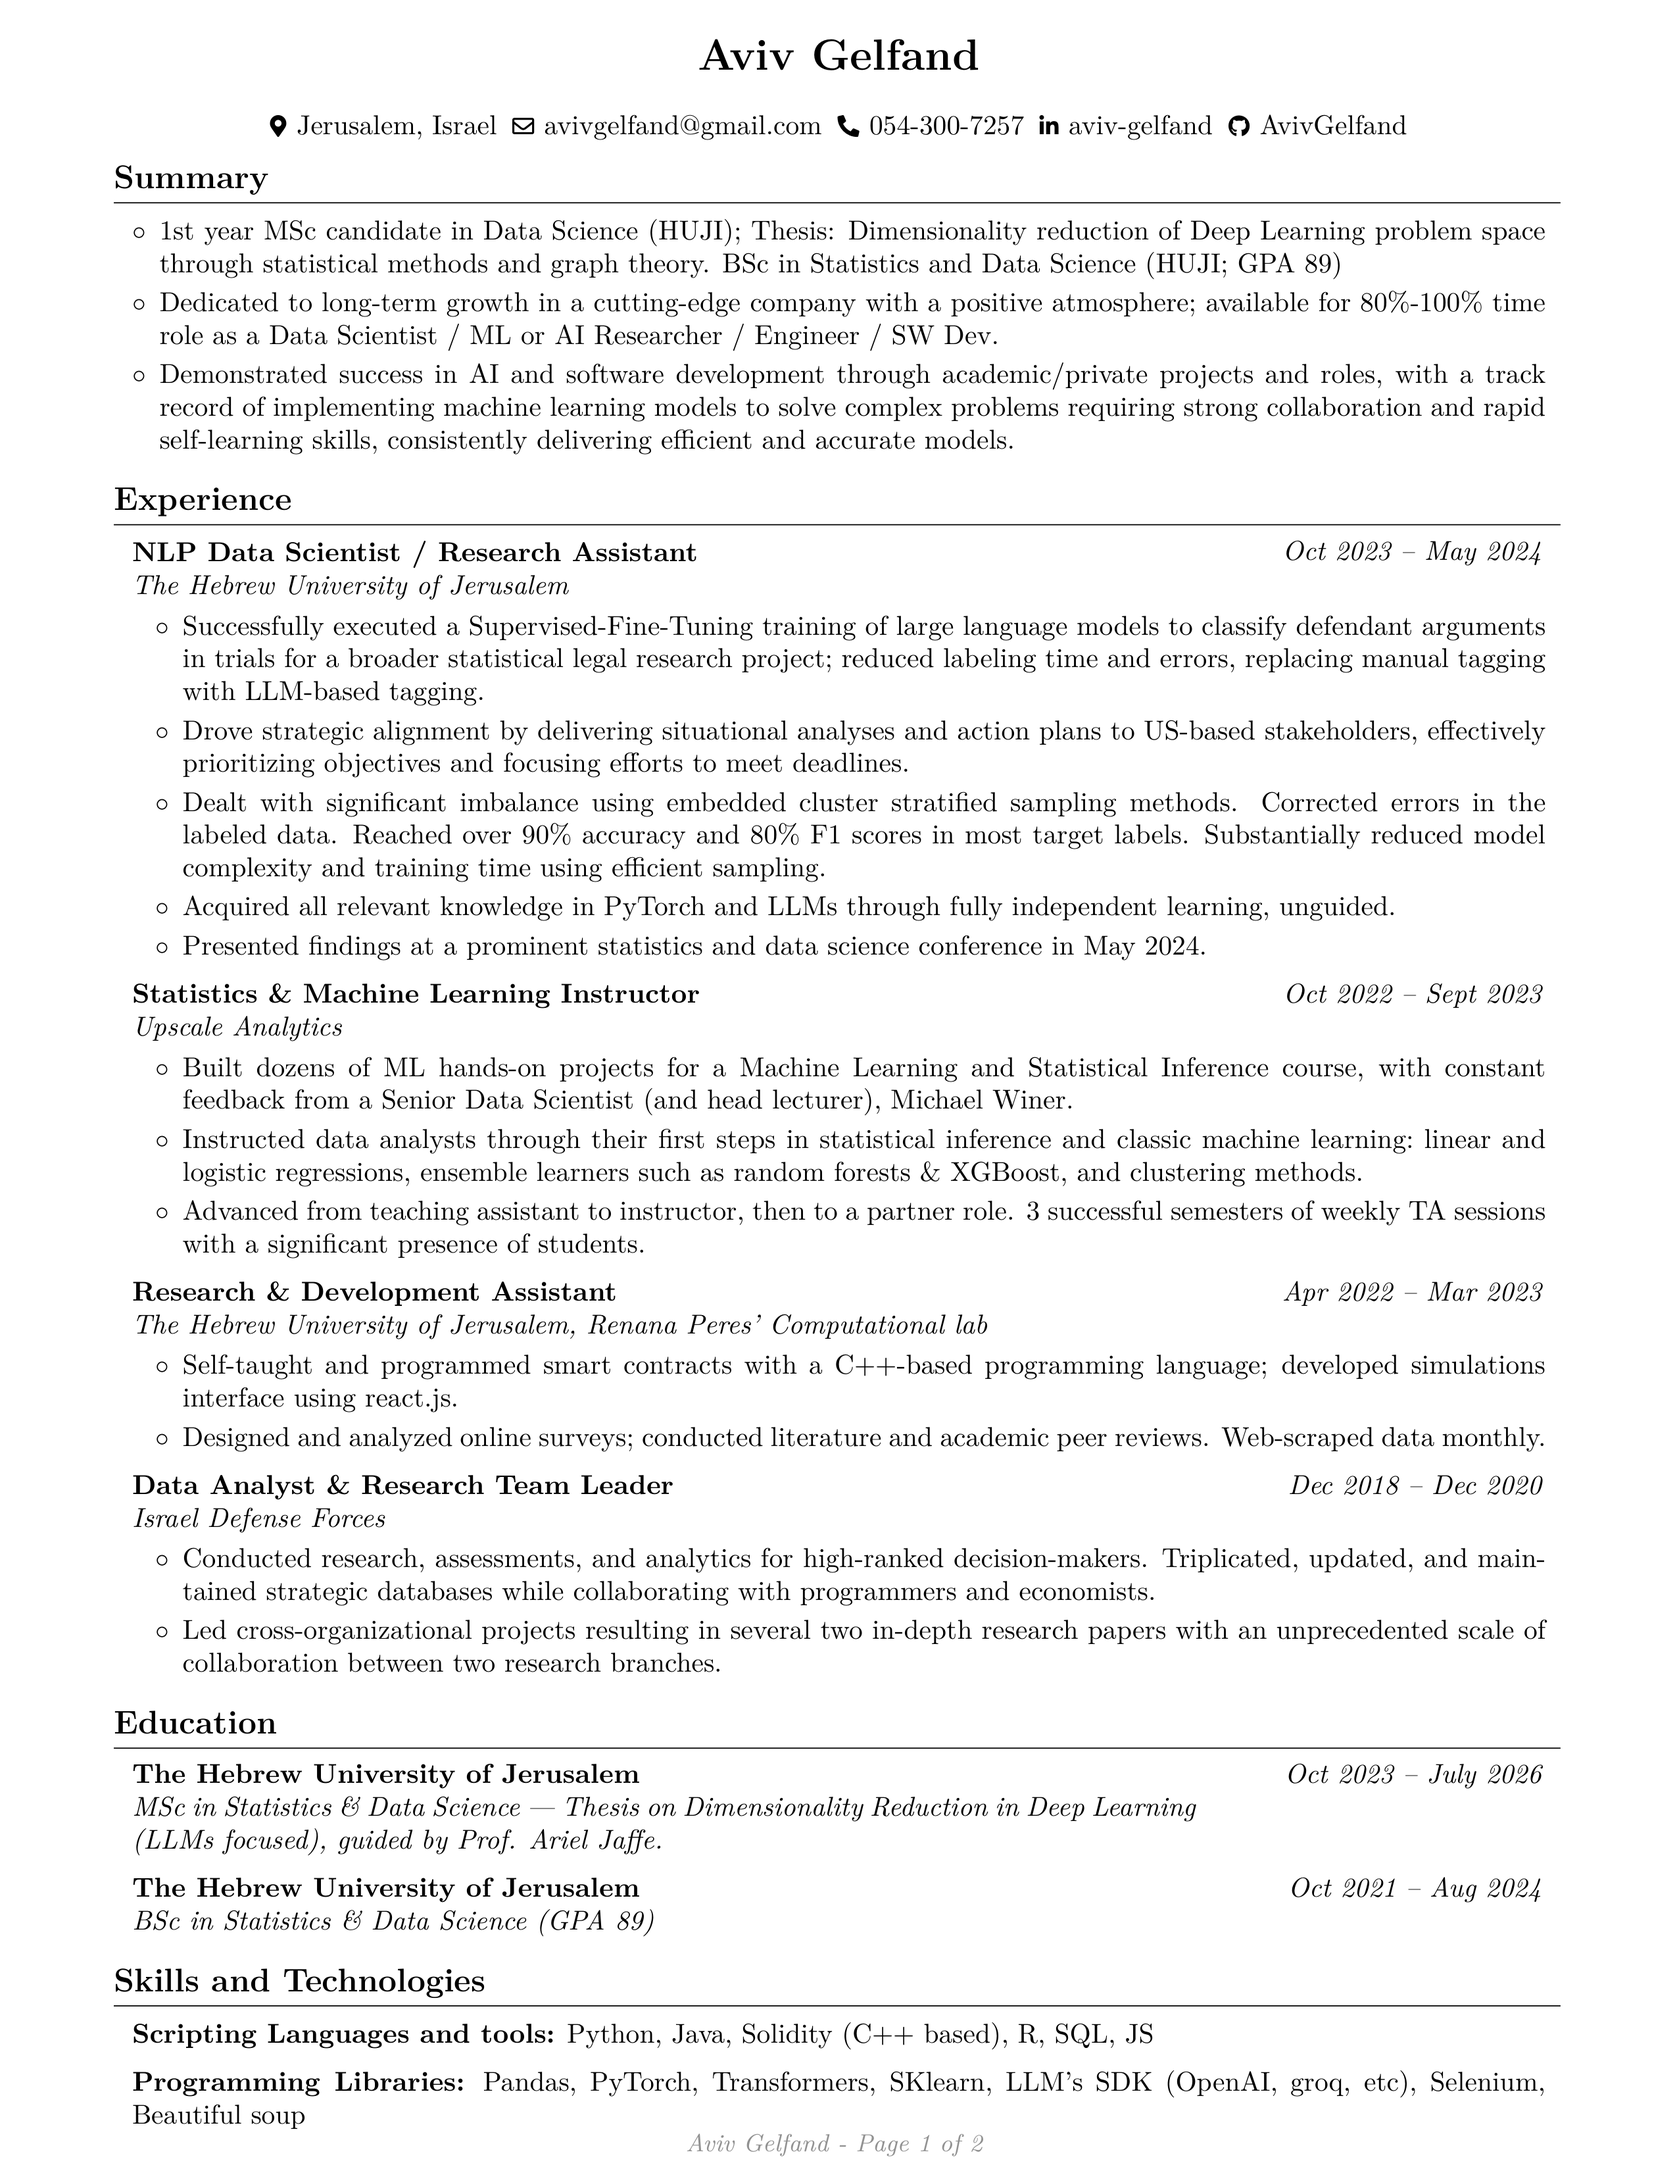
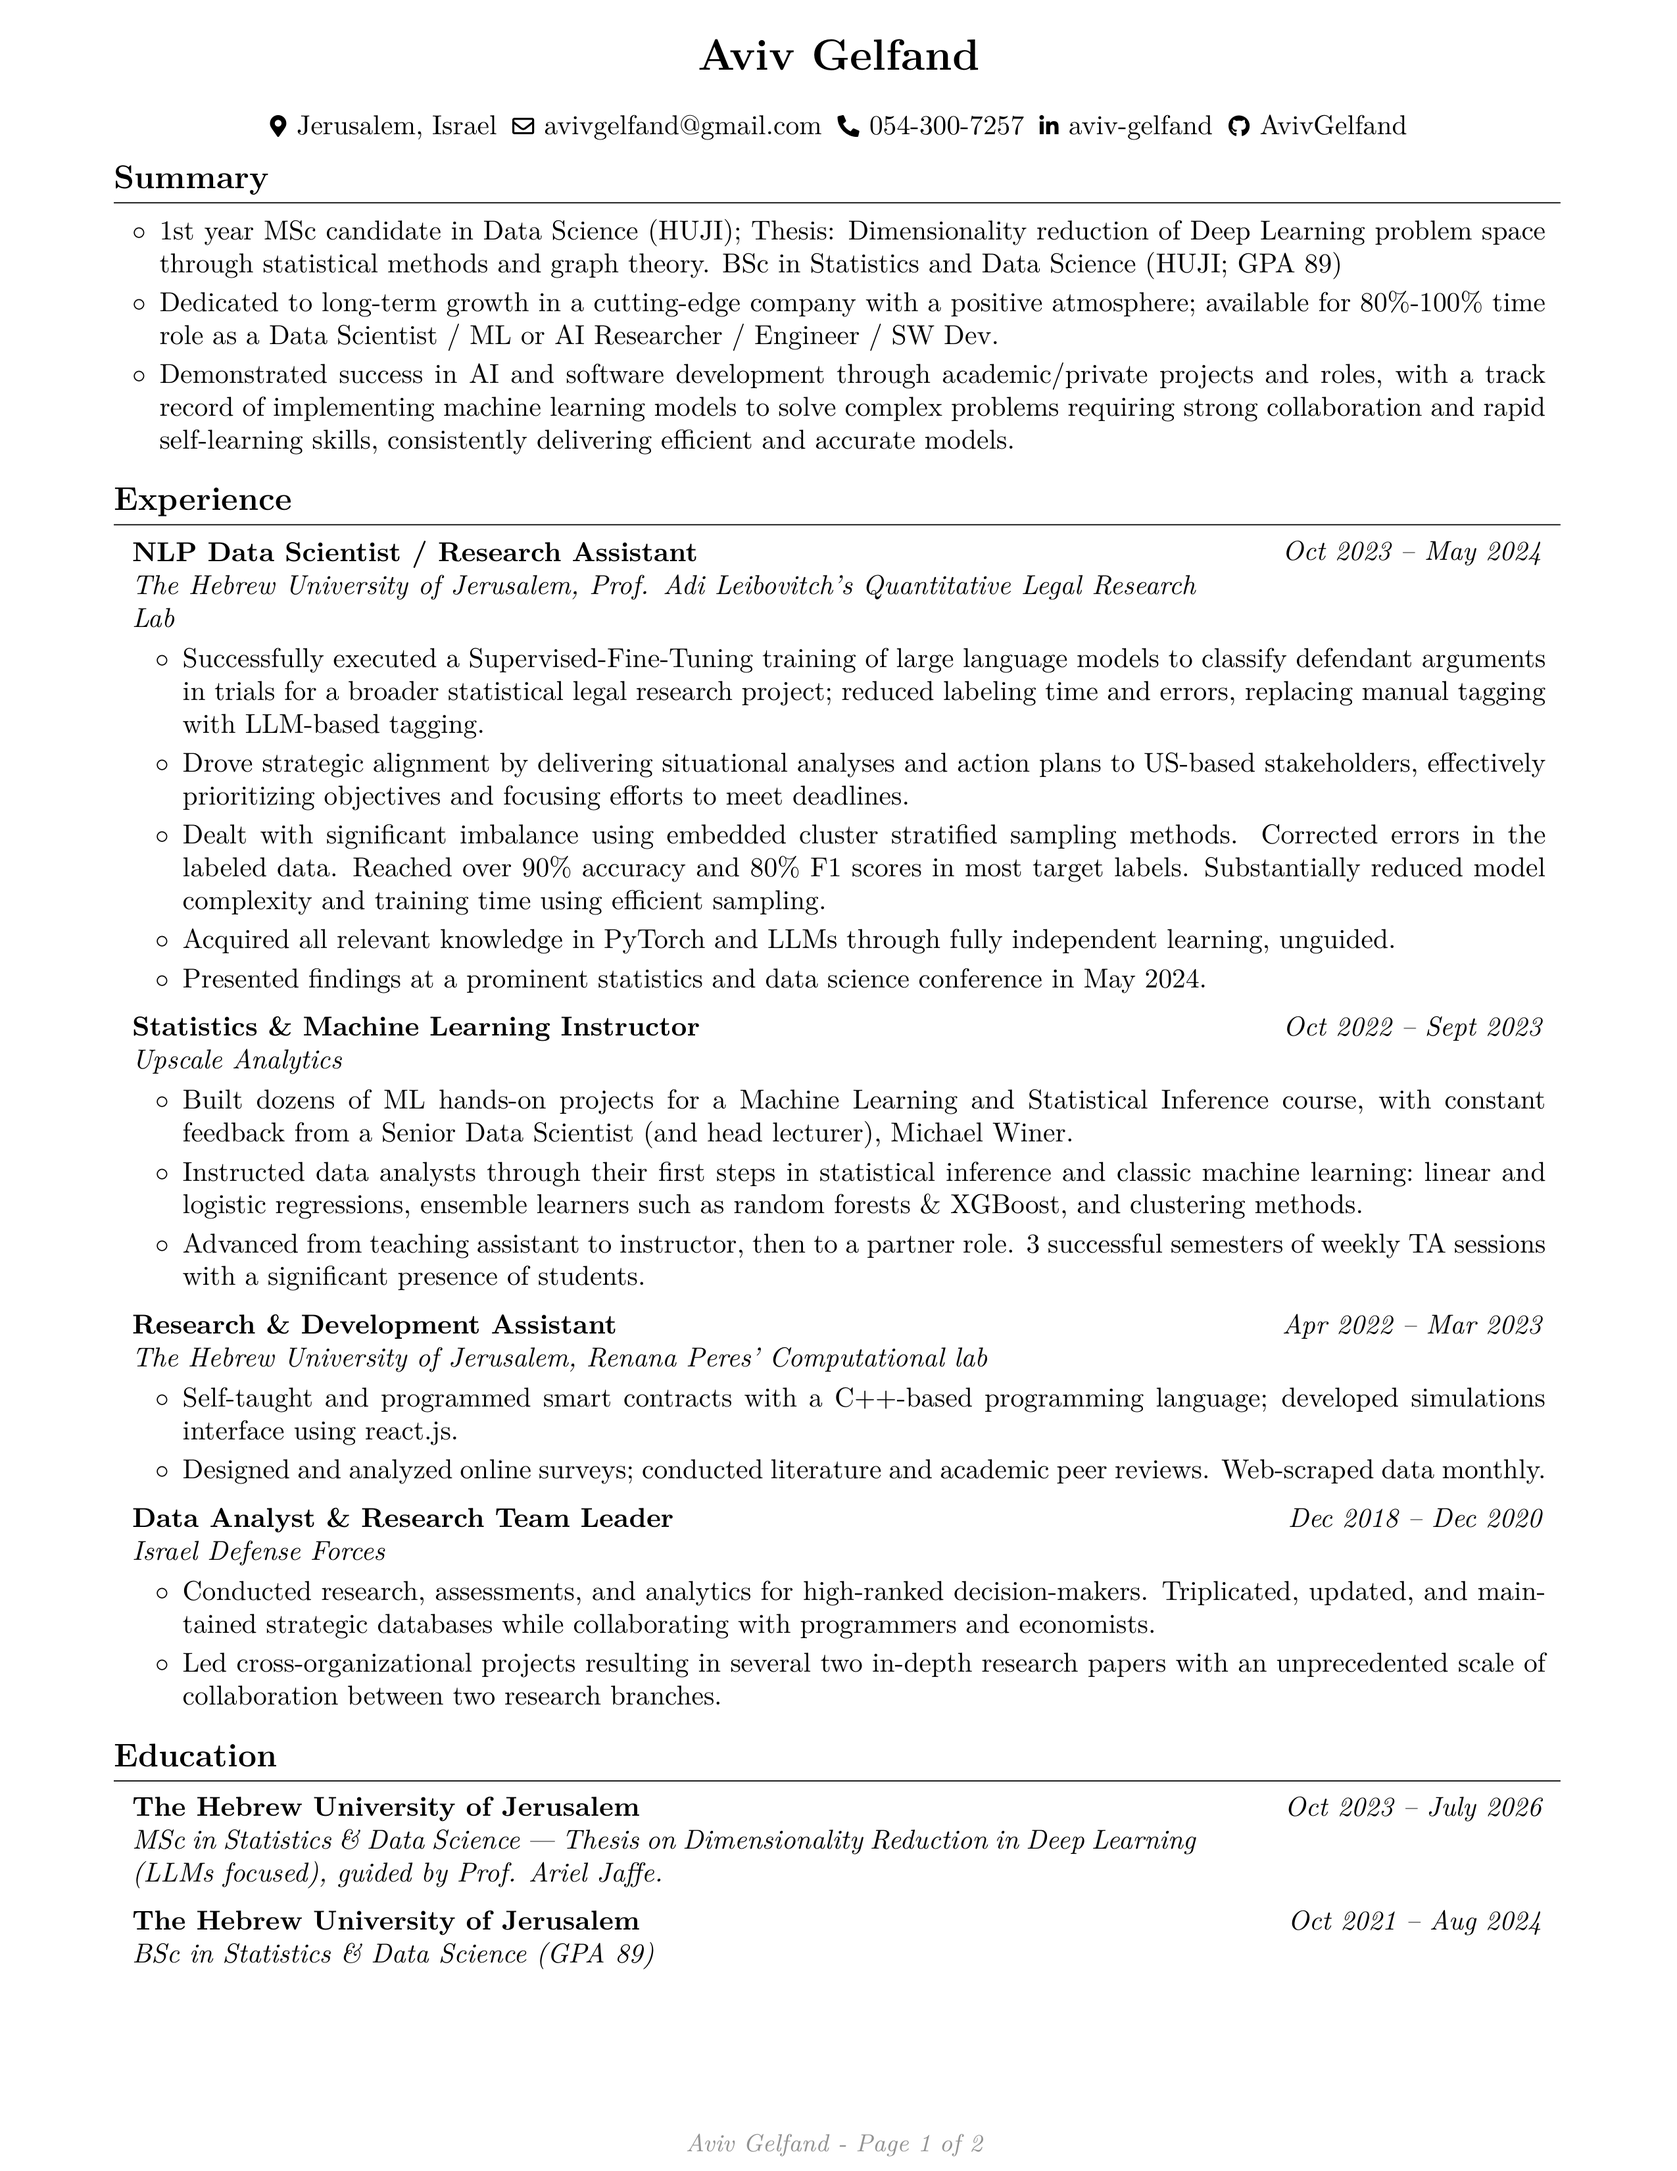
Render the latest CV

diff --git a/Aviv_Gelfand_CV.html b/Aviv_Gelfand_CV.html
@@ -47,7 +47,7 @@
         <li>Demonstrated success in AI and software development through academic/private projects and roles, with a track record of implementing machine learning models to solve complex problems requiring strong collaboration and rapid self-learning skills, consistently delivering efficient and accurate models.</li>
         </ul>
         <h1>Experience</h1>
-        <h2>The Hebrew University of Jerusalem, NLP Data Scientist / Research Assistant</h2>
+        <h2>The Hebrew University of Jerusalem, Prof. Adi Leibovitch's Quantitative Legal Research Lab, NLP Data Scientist / Research Assistant</h2>
         <ul>
         <li>Oct 2023 – May 2024</li>
         <li>Successfully executed a Supervised-Fine-Tuning training of large language models to classify defendant arguments in trials for a broader statistical legal research project; reduced labeling time and errors, replacing manual tagging with LLM-based tagging.</li>

diff --git a/Aviv_Gelfand_CV.tex b/Aviv_Gelfand_CV.tex
@@ -208,7 +208,7 @@
         \textit{Oct 2023 – May 2024}}
             \textbf{NLP Data Scientist / Research Assistant}
             
-            \textit{The Hebrew University of Jerusalem}
+            \textit{The Hebrew University of Jerusalem, Prof. Adi Leibovitch's Quantitative Legal Research Lab}
         \end{twocolentry}
 
         \vspace{0.1 cm}

diff --git a/README.md b/README.md
@@ -16,7 +16,7 @@
 - Demonstrated success in AI and software development through academic/private projects and roles, with a track record of implementing machine learning models to solve complex problems requiring strong collaboration and rapid self-learning skills, consistently delivering efficient and accurate models.
 # Experience
 
-## The Hebrew University of Jerusalem, NLP Data Scientist / Research Assistant
+## The Hebrew University of Jerusalem, Prof. Adi Leibovitch's Quantitative Legal Research Lab, NLP Data Scientist / Research Assistant
 
 - Oct 2023 – May 2024
 - Successfully executed a Supervised-Fine-Tuning training of large language models to classify defendant arguments in trials for a broader statistical legal research project; reduced labeling time and errors, replacing manual tagging with LLM-based tagging.
